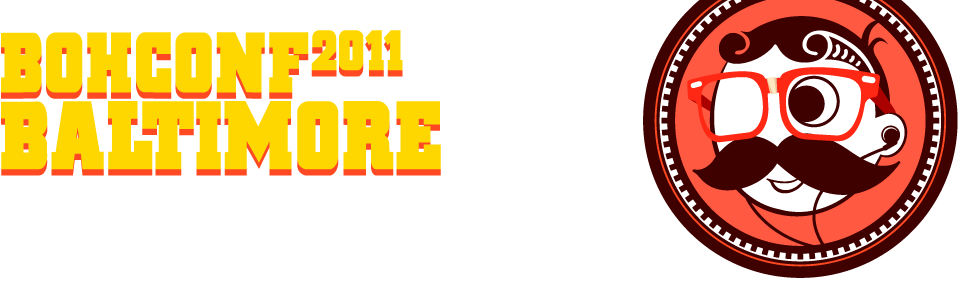
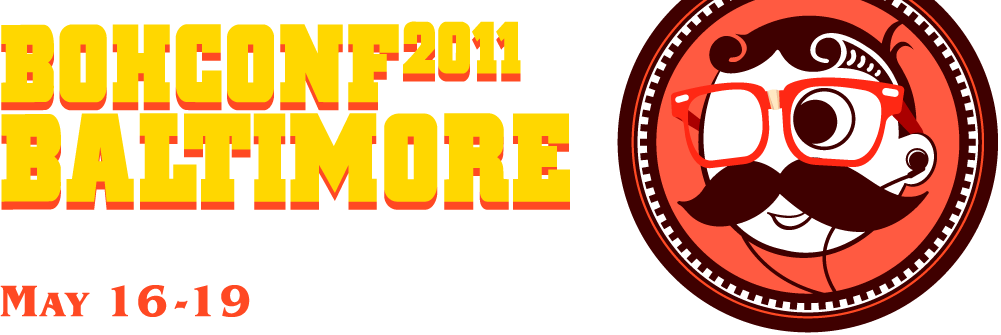
style changes, added photos from BohCOnf 2010

diff --git a/public/index.html b/public/index.html
@@ -26,31 +26,32 @@
 
   <div id="content">
 
-    <h1>BohConf, The Official Unconf of RailsConf 2010</h1>
+    <h1>BohConf, The Official Unconf of RailsConf 2011</h1>
 
     <div id="tab_container">
-      <a id="social_media_link" href="#">Social Media</a>
-      <a id="sessions_link" href="#">Sessions</a>
-      <a id="what_is_boh_link" href="#">What is Boh?</a>
-      <a id="when_where_link" href="#">When &amp; Where</a>
-      <a id="about_link" href="#">About</a>
+    	<a id="about_link" href="#">About</a>
+        <a id="when_where_link" href="#">When &amp; Where</a>
+        <a id="what_is_boh_link" href="#">What is Boh?</a>
+      	<a id="sessions_link" href="#">Sessions</a>
+      	<a id="social_media_link" href="#">Social Media</a>
     </div>
 
-    <h2 id="upcoming_h2">NEWS!</h2>
+    <h2 id="upcoming_h2">Help Make BohConf 2011 the Best Unconf Ever!</h2>
     <p class="back_to_top" href="#">Back to top</p>
     <div class="section" id="upcoming_container">
-      <a href="http://twitter.com/railsconf/status/27049733980"><img src="images/railsconf-tweet.png"></a>
-      <div id="upcoming_text_container">
-        <p>It's official! RailsConf will return to Baltimore in 2011. We're not sure what this means for BohConf yet,
-        but regardless, we're excited.</p>
-      </div>
-    </div>
-
-    <h2 id="about_h2">About BohConf</h2>
-    <p class="back_to_top" href="#">Back to top</p>
-
-    <div class="section" id="about_container">
-      <script type="text/javascript">
+       
+        <div id="form-container">
+          <form action="" method="POST" target="fake-target" onsubmit="this.action='http://spreadsheets.google.com/formResponse?formkey=dE1oZnlsb1JQRkhpQk1nZkR5R3k0LWc6MQ'; custommsg(); return true;">
+            <h3>Enter your name and email address to receive news about BohConf!</h3>
+            <input type="text" id="text_field1" class="text_field" name="entry.0.single" value="Enter your name" onfocus="clearField1();" onblur="resetField1();"><br />
+            <input type="text" id="text_field2" class="text_field" name="entry.1.single" value="Enter your email address" onfocus="clearField2();" onblur="resetField2();"><br />
+            <textarea name="entry.2.single"></textarea><br />
+            <input type="submit" id="submit_button" value="Submit">
+          </form>
+        </div>
+        <iframe id="fake-target" name="fake-target" style="width:0px; height:0px; border:0px; margin:0px"></iframe>
+        
+        <script type="text/javascript">
         function custommsg() {
           /*
           document.getElementById("form-message").style.display="";
@@ -87,18 +88,21 @@
           }
         }
       </script>
-        <div style="display: none;" id="form-message"></div>
-        <div id="form-container">
-          <form action="" method="POST" target="fake-target" onsubmit="this.action='http://spreadsheets.google.com/formResponse?formkey=dE1oZnlsb1JQRkhpQk1nZkR5R3k0LWc6MQ'; custommsg(); return true;">
-            <h3>Enter your name and email address to receive news about BohConf!</h3>
-            <input type="text" id="text_field1" class="text_field" name="entry.0.single" value="Enter your name" onfocus="clearField1();" onblur="resetField1();"><br />
-            <input type="text" id="text_field2" class="text_field" name="entry.1.single" value="Enter your email address" onfocus="clearField2();" onblur="resetField2();"><br />
-            <input type="submit" id="submit_button" value="Submit">
-          </form>
-        </div>
-        <iframe id="fake-target" name="fake-target" style="width:0px; height:0px; border:0px; margin:0px"></iframe>
+      
+      <div style="display: none;" id="form-message"></div>
+        
+        
+     	<p>It's official! RailsConf will return to Baltimore in 2011.  Please take a moment to fill out this form and help us make BohConf 2011 even better than last year.</p>
+    	
+        <div class="clear"></div>
+        
+    </div>
 
-        <div class="section" id="about_text_container">
+    <h2 id="about_h2">About BohConf</h2> <p class="back_to_top" href="#">Back to top</p>
+
+    <div class="section" id="about_container">
+
+        <div id="about_text_container">
           <p><strong>BohConf is the official
           <a href="http://en.oreilly.com/rails2010" target="_blank">RailsConf 2010</a> unconference</strong>.
           At BohConf, we're going to get our hands dirty writing code and
@@ -115,13 +119,27 @@
           by contributing to <a
             href="http://wiki.github.com/smartlogic/BohConf/">the BohConf wiki</a>.
           Your input will shape this event.</p>
-        </div>
+          
+          </div>
+          
+       	<div id="bohconf_2010_gallery" class="gallery">
+        	<h3>Photos from BohConf 2010</h3>
+        	<ul>
+          		<li><a href="http://www.twitter.com/ngauthier" title="Photo courtesy of Nick Gauthier"><img src="images/bohconf_2010_01.jpg" width="800" height="478" alt="BohConf"></a></li>
+          		<li><a href="http://www.flickr.com/photos/oreillyconf/4683595302/" title="Photo courtesy of O'Reilly Conferences"><img src="http://farm2.static.flickr.com/1287/4683595302_8f66c72a76_z.jpg" width="640" height="426" alt="BohConf 2010"></a></li>
+          		<li><a href="http://www.flickr.com/photos/oreillyconf/4682964403/" title="Photo courtesy of O'Reilly Conferences"><img src="http://farm5.static.flickr.com/4054/4682964403_08ffa7b599_z.jpg" width="640" height="427" alt="BohConf 2010"></a></li>
+          		<li><a href="http://www.flickr.com/photos/brentmc79/4683760985/" title="Photo courtesy of Brent Collier, brentmc79 on Flickr"><img src="http://farm5.static.flickr.com/4020/4683760985_8106f4a1f2_z.jpg" width="640" height="428" alt="BohConf 2010"></a></li>
+         		<li><a href="http://www.flickr.com/photos/oreillyconf/4682963441/" title="Photo Courtesy of O'Reilly Conferences"><img src="http://farm5.static.flickr.com/4064/4682963441_e6a9191b5d_z.jpg" width="640" height="427" alt="BohConf 2010"></a></li>
+          		<li><a href="http://www.flickr.com/photos/brentmc79/4684388908/" title="Photo courtesy of Brent Collier, brentmc79 on Flickr"><img src="http://farm2.static.flickr.com/1302/4684388908_ed9c292063_z.jpg" width="640" height="428" alt="BohConf 2010"></a></li>
+       		</ul>
+      	</div>
+          
         <div class="clear">&nbsp;</div>
       </div>
 
       <h2 id="when_where_h2">When &amp; Where</h2> <p class="back_to_top" href="#">Back to top</p>
 		<div class="section">
-      <p>BohConf 2010 was held at the <a href="http://www.bccenter.org" target="_blank">Baltimore Convention Center</a>, June 7 - 9, 2010.</p>
+      <p>BohConf 2011 will be held at the <a href="http://www.bccenter.org" target="_blank">Baltimore Convention Center</a>, May 16-19.</p>
 
       <p><strong>CURRENT SESSION:</strong> <a href="http://wiki.github.com/smartlogic/BohConf/community-code-drive">http://wiki.github.com/smartlogic/BohConf/community-code-drive</a> </p>
 		</div>
@@ -129,7 +147,7 @@
 		<div class="section">
       <p>The name BohConf is an homage to the Baltimore institution <a href="http://nationalbohemian.com/" target="_blank">National Bohemian</a> (or Natty Boh).  Every town has their local light beer of choice, and ours is Natty Boh.  Make sure to grab one (or several) when you're in town.</p>
 
-      <div class="gallery">
+      <div id="what_is_boh_gallery" class="gallery">
         <ul>
           <li><a href="http://www.flickr.com/photos/cizauskas/4084079963/" title="Mr Boh by cizauskas, on Flickr"><img src="http://farm3.static.flickr.com/2504/4084079963_c72dcfa0a4.jpg" width="500" height="376" alt="Mr Boh"> </a> </li>
           <li><a href="http://www.flickr.com/photos/nifkin/3853314882/" title="Dillon St &amp;amp; S Dean St, Baltimore, MD 21224, United States by MRaichelson, on Flickr"><img src="http://farm4.static.flickr.com/3419/3853314882_09bc9c90ed.jpg" width="500" height="375" alt="Dillon St &amp;amp; S Dean St, Baltimore, MD 21224, United States"></a></li>

diff --git a/public/css/style.css b/public/css/style.css
@@ -7,22 +7,20 @@ body {
   background-image: url("../images/background.png");
   background-repeat: repeat-y;
   background-position: center;
-  font-family: Arial, Helvetica, sans-serif;
+  background-attachment: fixed;
+  font-family: Helvetica, Arial, sans-serif;
 }
 p {
   font-size: 14px;
   line-height: 20px;
   font-family: Verdana, Geneva, sans-serif;
-  padding: 30px;
+  padding: 0 0 20px 0;
   color: #000;
 }
 p.trailing {
-  padding: 0 30px 30px 30px;
+  padding: 0 30px;
 }
-@font-face {
-  font-family: fontin;
-  src: url("../fontin_b.otf");
-}
+
 a {
   color: #f00;
   text-decoration: none;
@@ -31,20 +29,20 @@ a:hover {
   text-decoration: underline;
 }
 h1 {
-  width: 960px;
-  height: 300px;
+  width: 1001px;
+  height: 336px;
   background-image: url("../images/boh_header_2011.png");
   background-repeat: no-repeat;
   text-indent: -9999px;
+  margin-bottom: 100px;
 }
 h2 {
   color: #fff;
-  font-family: fontin, times, serif;
   font-size: 22px;
   font-weight: bold;
   letter-spacing: 1.5px;
   background-color: #000;
-  padding: 4px 0px 4px 30px;
+  padding: 10px 0px 10px 30px;
   width: 930px;
   margin: 24px 0 0 0;
   clear: both;
@@ -76,7 +74,6 @@ input {
 }
 #main_container {
   margin: 0px auto;
-  /*background-image: url("../images/shadow2.png");*/
   background-position: center;
   background-repeat: repeat-y;
 }
@@ -85,10 +82,11 @@ input {
   margin: 0px auto;
 }
 #tab_container {
-  width: 695px;
   position: absolute;
-  top: 242px;
-  border-top: solid 1px #000;
+  top: 350px;
+  width: 960px;
+  background-color: #000;
+  -webkit-box-shadow: 0 3px 10px #000;
 }
 #tab_container a {
   font-size: 16px;
@@ -97,17 +95,12 @@ input {
   text-decoration: none;
   color: #fff;
   background-color: #000;
-  padding: 4px 15px 6px 15px;
-  margin: 0px 16px 8px 0px;
+  padding: 4px 24px;
   position: relative;
-  -moz-border-radius-bottomleft: 8px;
-  -moz-border-radius-bottomright: 8px;
-  -webkit-border-bottom-left-radius: 8px;
-  -webkit-border-bottom-right-radius: 8px;
-  float: right;
+  display: inline-block;
 }
 .back_to_top {
-  color: #fff;
+  color: #ffd700;
   padding: 15px 30px;
   font-size: 14px;
   line-height: normal;
@@ -118,25 +111,31 @@ input {
 }
 
 .section {
-	background-color: #fff;
+	background-color: #ffc8aa;
+	-webkit-box-shadow: 0 5px 10px #000;
+	padding: 30px;
+}
+
+.section p:last-child {
+	padding: 0;
 }
 
 #about_container {
-  clear: both;
+  
 }
-#about_container #form-container, #about_container #form-message {
+#form-container, #form-message {
   width: 324px;
   background-color: #FF5A41;
   border: double 8px #fff;
   padding: 15px;
-  float: right;
   text-align: center;
-  margin: 30px;
+  margin-right: 30px;
+  float: left;
 }
-#about_container #form-container h3 {
+#form-container h3 {
   padding: 10px 0px;
 }
-#about_container #form-container p {
+#form-container p {
   width: 264px;
   text-align: center;
 }
@@ -144,20 +143,25 @@ input {
   width: 500px;
   float: left;
 }
-#about_container #about_text_container p {
-  padding: 30px 0 30px 30px;
-}
+
 .text_field {
   width: 300px;
   height: 24px;
   padding-left: 10px;
+  margin: 6px 0;
   font-size: 16px;
   color: #999;
 }
+
+#form-container textarea {
+	width: 311px;
+	height: 60px;
+	margin: 6px 0;
+}
+
 #submit_button {
-  color: #f00;
+  color: #FF5A41;
   background-color: #fff;
-  border: double 8px #FF5A41;
   font-size: 20px;
   padding: 4px 40px;
   -moz-border-radius: 8px;
@@ -166,7 +170,7 @@ input {
   cursor: pointer;
 }
 #submit_button:hover {
-  color: #BDD472;
+  color: #999;
 }
 #form-message {
   color: #63C;
@@ -194,13 +198,16 @@ input {
 }
 
 .gallery {
-  padding: 5px 30px;
   text-align: center;
 }
 .gallery li {
-  padding-left: 10px;
-  padding-right: 10px;
+  padding: 0 8px;
   display: inline;
+}
+
+.gallery img {
+	border: solid 2px #000;
+	padding: 1px;
 }
 
 .color {

diff --git a/public/js/script.js b/public/js/script.js
@@ -10,7 +10,7 @@ $(document).ready(function(){
 
   $("#tab_container a").hover(
     function() {
-      $(this).animate({backgroundColor: "#ff0000"}, 300);
+      $(this).animate({backgroundColor: "#FF4923"}, 300);
     },
     function() {
       $(this).animate({backgroundColor: "#000000"}, 300);
@@ -41,7 +41,7 @@ $(document).ready(function(){
     $('html, body').animate({scrollTop: $("h1").offset().top}, 700);
   });
 
-  $('.gallery img').each(function () {
+  $('#bohconf_2010_gallery img').each(function () {
     var img = $(this),
         pre_w = img.width() * 1.0,
         pre_h = img.height() * 1.0;
@@ -58,6 +58,29 @@ $(document).ready(function(){
       })
       .attr('href', img.attr('src'));
   });
-  $('.gallery a').lightBox();
+  $('#bohconf_2010_gallery a').lightBox();
+  
+  
+  $('#what_is_boh_gallery img').each(function () {
+    var img = $(this),
+        pre_w = img.width() * 1.0,
+        pre_h = img.height() * 1.0;
+
+    // constrain preview size
+    img
+      .width( 120 )
+      .height( pre_h * (120.0 / pre_w));
+
+    // convert link into lightbox compatible form
+    img.closest('a')
+      .attr('title', function (n, old) {
+        return "<a href='" + $(this).attr('href') + "' target='_blank'>" + old + "</a>";
+      })
+      .attr('href', img.attr('src'));
+  });
+  $('#what_is_boh_gallery a').lightBox();
+  
 });
+
+
 
